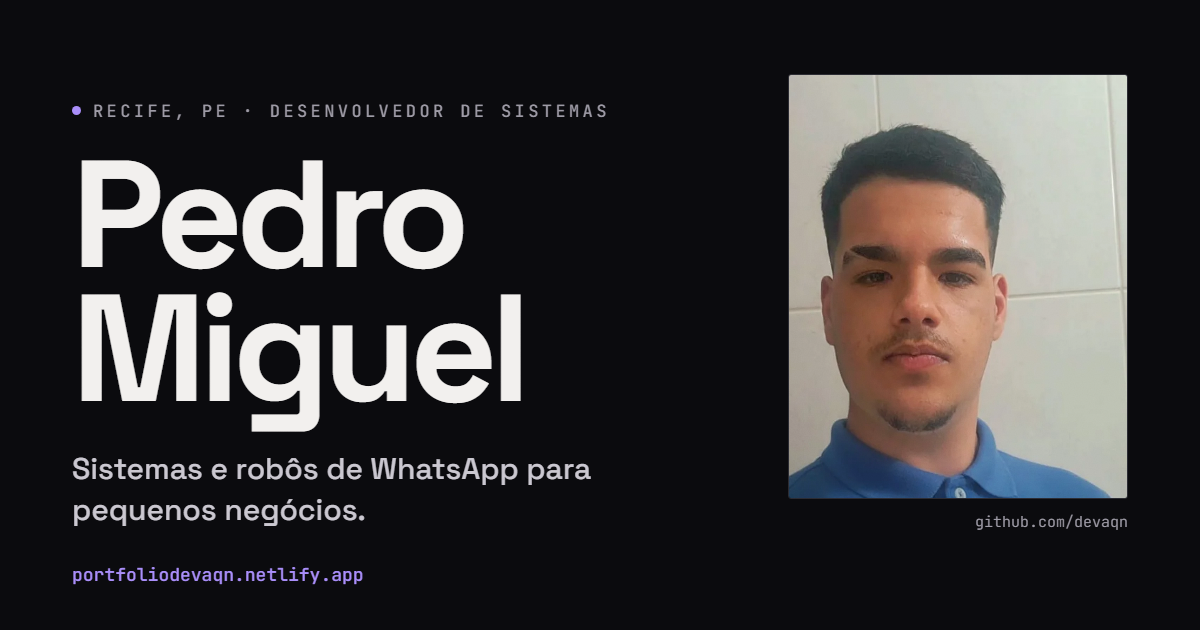
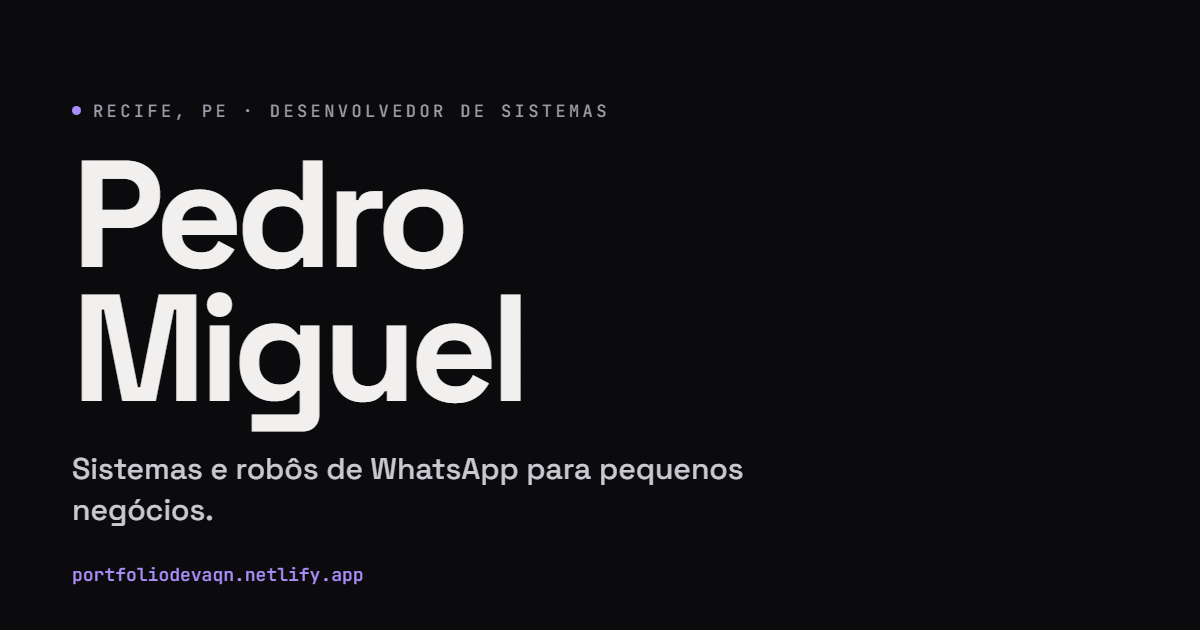
portfolio: tira a foto da pagina e conserta a animacao de abertura
A foto saiu do Hero, do index.html, do JSON-LD e da imagem de compartilhamento
(og.png refeita so com texto). A animacao do P agora escreve o transform do SVG
direto, sem passar pelo motor de SVG do GSAP, que derrubava a pagina em alguns
navegadores. As animacoes de rolagem tocam sempre; so o movimento automatico
(seta piscando) respeita 'reduzir movimento' do sistema.

Changed region(s): [[0.6475, 0.0905, 0.9558, 0.8444], [0.0617, 0.7841, 0.3083, 0.8444], [0.4933, 0.7238, 0.6167, 0.7841]]

diff --git a/src/components/Hero.tsx b/src/components/Hero.tsx
@@ -3,12 +3,21 @@ import gsap from 'gsap'
 import { ScrollTrigger } from 'gsap/ScrollTrigger'
 import { ArrowDown, ArrowUpRight } from 'lucide-react'
 import { perfil } from '@/content/perfil'
-import { CONDICOES, deveAnimar } from '@/lib/movimento'
+import { CONDICOES, deveAnimar, podeMoverSozinho } from '@/lib/movimento'
 
 gsap.registerPlugin(ScrollTrigger)
 
 const ROXO = '#7c3aed'
 const FUNDO = '#0a0a0d'
+
+/**
+ * Escala o "P" em volta do centro direto no atributo do SVG. O GSAP até sabe animar SVG, mas um
+ * elemento dentro de <clipPath> não é "desenhado", e em alguns navegadores ele não consegue ler a
+ * posição dele e derruba a página inteira. Escrever o atributo à mão funciona em todos.
+ */
+const escalarLetra = (el: SVGPathElement, escala: number, proporcao: number) => {
+  el.setAttribute('transform', `translate(0.5 0.5) scale(${escala} ${escala * proporcao}) translate(-0.5 -0.5)`)
+}
 
 /**
  * A abertura é um "P" que cresce até virar a página. O P é um clip-path
@@ -30,12 +39,14 @@ const Hero = () => {
     mm.add(CONDICOES, (ctx) => {
       if (!deveAnimar(ctx)) {
         gsap.set(recorte.current, { backgroundColor: FUNDO })
-        gsap.set(letra.current, { scaleX: 60, scaleY: 60, transformOrigin: '50% 50%' })
+        escalarLetra(letra.current, 60, 1)
         gsap.set(conteudo.current, { autoAlpha: 1, y: 0 })
         return
       }
 
       let proporcao = window.innerWidth / window.innerHeight
+      const estado = { escala: 0.15 }
+      escalarLetra(letra.current, estado.escala, proporcao)
 
       const tl = gsap.timeline({
         scrollTrigger: {
@@ -49,9 +60,14 @@ const Hero = () => {
       })
 
       tl.fromTo(
-        letra.current,
-        { scaleX: 0.15, scaleY: () => 0.15 * proporcao, transformOrigin: '50% 50%' },
-        { scaleX: 60, scaleY: () => 60 * proporcao, transformOrigin: '50% 50%', duration: 1, ease: 'power2.inOut' },
+        estado,
+        { escala: 0.15 },
+        {
+          escala: 60,
+          duration: 1,
+          ease: 'power2.inOut',
+          onUpdate: () => letra.current && escalarLetra(letra.current, estado.escala, proporcao),
+        },
       )
         .to(recorte.current, { backgroundColor: FUNDO, duration: 0.35, ease: 'none' }, 0.45)
         .fromTo(
@@ -64,10 +80,11 @@ const Hero = () => {
 
       const aoRedimensionar = () => {
         proporcao = window.innerWidth / window.innerHeight
+        if (letra.current) escalarLetra(letra.current, estado.escala, proporcao)
       }
       window.addEventListener('resize', aoRedimensionar, { passive: true })
 
-      if (dica.current) {
+      if (dica.current && podeMoverSozinho(ctx)) {
         gsap.to(dica.current, { y: 6, repeat: -1, yoyo: true, duration: 1.4, ease: 'sine.inOut' })
       }
 
@@ -99,7 +116,7 @@ const Hero = () => {
           style={{ clipPath: 'url(#recorte-p)', backgroundColor: ROXO }}
         >
           <div ref={conteudo} className="relative z-10 mx-auto grid w-full max-w-6xl grid-cols-12 items-center gap-x-8 gap-y-8 px-6 opacity-0">
-            <div className="col-span-12 md:col-span-8">
+            <div className="col-span-12 md:col-span-10">
               <p className="font-mono text-xs uppercase tracking-[0.2em] text-muted-foreground">
                 <span className="mr-2 inline-block h-1.5 w-1.5 rounded-full bg-primary align-middle" />
                 {perfil.hero.etiqueta}
@@ -130,16 +147,6 @@ const Hero = () => {
               </div>
             </div>
 
-            <figure className="col-span-5 row-start-1 m-0 md:col-span-4 md:row-start-auto md:flex md:flex-col md:items-end">
-              <img
-                src={perfil.foto}
-                alt={perfil.fotoAlt}
-                width={640}
-                height={800}
-                className="aspect-[4/5] w-full max-w-[150px] rounded-sm border border-border object-cover md:max-w-[300px]"
-              />
-              <figcaption className="mt-3 font-mono text-[11px] text-muted-foreground">github.com/{perfil.handle}</figcaption>
-            </figure>
           </div>
         </div>
 

diff --git a/src/lib/movimento.ts b/src/lib/movimento.ts
@@ -1,15 +1,20 @@
 import type gsap from 'gsap'
 
 /**
- * As animações respeitam "reduzir movimento" do sistema. Para ver a versão
- * animada num computador com essa opção ligada, abra o site com ?movimento=total.
+ * As animações de rolagem (a abertura em "P" e as entradas das seções) tocam sempre: quem as
+ * controla é a própria pessoa, rolando a página. Só o movimento que roda sozinho (a seta
+ * piscando) obedece a "reduzir movimento" do sistema. Para ver a página parada, abra o site com
+ * ?movimento=reduzido.
  */
 export const CONDICOES = {
   anima: '(prefers-reduced-motion: no-preference)',
   reduz: '(prefers-reduced-motion: reduce)',
 }
 
-export const movimentoForcado = () =>
-  typeof window !== 'undefined' && new URLSearchParams(window.location.search).get('movimento') === 'total'
+export const movimentoReduzidoPedido = () =>
+  typeof window !== 'undefined' && new URLSearchParams(window.location.search).get('movimento') === 'reduzido'
 
-export const deveAnimar = (ctx: gsap.Context) => Boolean(ctx.conditions?.anima) || movimentoForcado()
+export const deveAnimar = (_ctx?: gsap.Context) => !movimentoReduzidoPedido()
+
+/** Movimento que roda sem a pessoa fazer nada: respeita a configuração do sistema. */
+export const podeMoverSozinho = (ctx: gsap.Context) => Boolean(ctx.conditions?.anima) && !movimentoReduzidoPedido()

diff --git a/index.html b/index.html
@@ -14,7 +14,6 @@
     <link rel="preload" as="style" href="https://fonts.googleapis.com/css2?family=Space+Grotesk:wght@400;500;600;700&family=JetBrains+Mono:wght@400;500&display=swap" />
     <link rel="stylesheet" href="https://fonts.googleapis.com/css2?family=Space+Grotesk:wght@400;500;600;700&family=JetBrains+Mono:wght@400;500&display=swap" media="print" onload="this.media='all'" />
     <noscript><link rel="stylesheet" href="https://fonts.googleapis.com/css2?family=Space+Grotesk:wght@400;500;600;700&family=JetBrains+Mono:wght@400;500&display=swap" /></noscript>
-    <link rel="preload" as="image" href="/pedro.webp" type="image/webp" />
 
     <meta name="description" content="Pedro Miguel, de Recife, cria sistemas, robôs de WhatsApp e painéis para pequenos negócios. Veja os projetos explicados e os números contados no GitHub. Desenvolvedor back-end e de automação com IA." />
     <meta name="author" content="Pedro Miguel" />
@@ -46,7 +45,6 @@
           "alternateName": "devaqn",
           "jobTitle": "Back-End Developer",
           "url": "https://portfoliodevaqn.netlify.app/",
-          "image": "https://portfoliodevaqn.netlify.app/pedro.webp",
           "address": { "@type": "PostalAddress", "addressLocality": "Recife", "addressRegion": "PE", "addressCountry": "BR" },
           "sameAs": [
             "https://github.com/devaqn",

diff --git a/src/content/perfil.ts b/src/content/perfil.ts
@@ -1,5 +1,5 @@
 /**
- * Tudo o que é texto sobre o Pedro mora aqui. Para mudar o tom, a foto ou um
+ * Tudo o que é texto sobre o Pedro mora aqui. Para mudar o tom ou um
  * link, edite este arquivo: os componentes só desenham o que está nele.
  *
  * Regra de escrita: quem lê pode não ser da área. Termo técnico só aparece
@@ -10,8 +10,6 @@ export const perfil = {
   nome: 'Pedro Miguel',
   handle: 'devaqn',
   cidade: 'Recife, PE',
-  foto: '/pedro.webp',
-  fotoAlt: 'Pedro Miguel, desenvolvedor de sistemas de Recife',
 
   email: 'pedromiguelaqn@gmail.com',
   telefone: '(81) 99819-1625',

diff --git a/README.md b/README.md
@@ -13,7 +13,7 @@ npm test           # testes dos dados e da formatação
 npm run build      # gera a pasta dist
 ```
 
-Quem tem "reduzir movimento" ligado no sistema vê a página sem as animações. Para ver a versão animada nesse caso, abra `http://localhost:8080/?movimento=total`.
+As animações de rolagem tocam sempre, porque quem manda nelas é a pessoa rolando a página. Só o movimento que roda sozinho (a seta piscando) obedece a "reduzir movimento" do sistema. Para ver a página parada, abra `http://localhost:8080/?movimento=reduzido`.
 
 ## Onde mexer
 
@@ -25,7 +25,7 @@ O texto e os dados ficam em `src/content/`, separados do visual. Os componentes 
 | `projetos.ts` | Os quatro projetos de código privado (com o diagrama de cada um) e os projetos públicos |
 | `git.ts` | Os números medidos no GitHub, a data da medição e a lista de reserva dos últimos projetos |
 
-A foto está em `public/pedro.webp`. Para trocar, coloque outra imagem com o mesmo nome (formato 4:5 funciona melhor) e atualize `public/og.png`, que é a imagem que aparece quando o link é compartilhado.
+A imagem que aparece quando o link é compartilhado é `public/og.png` (1200 por 630). Não há foto na página.
 
 ## Regras que o projeto segue
 
